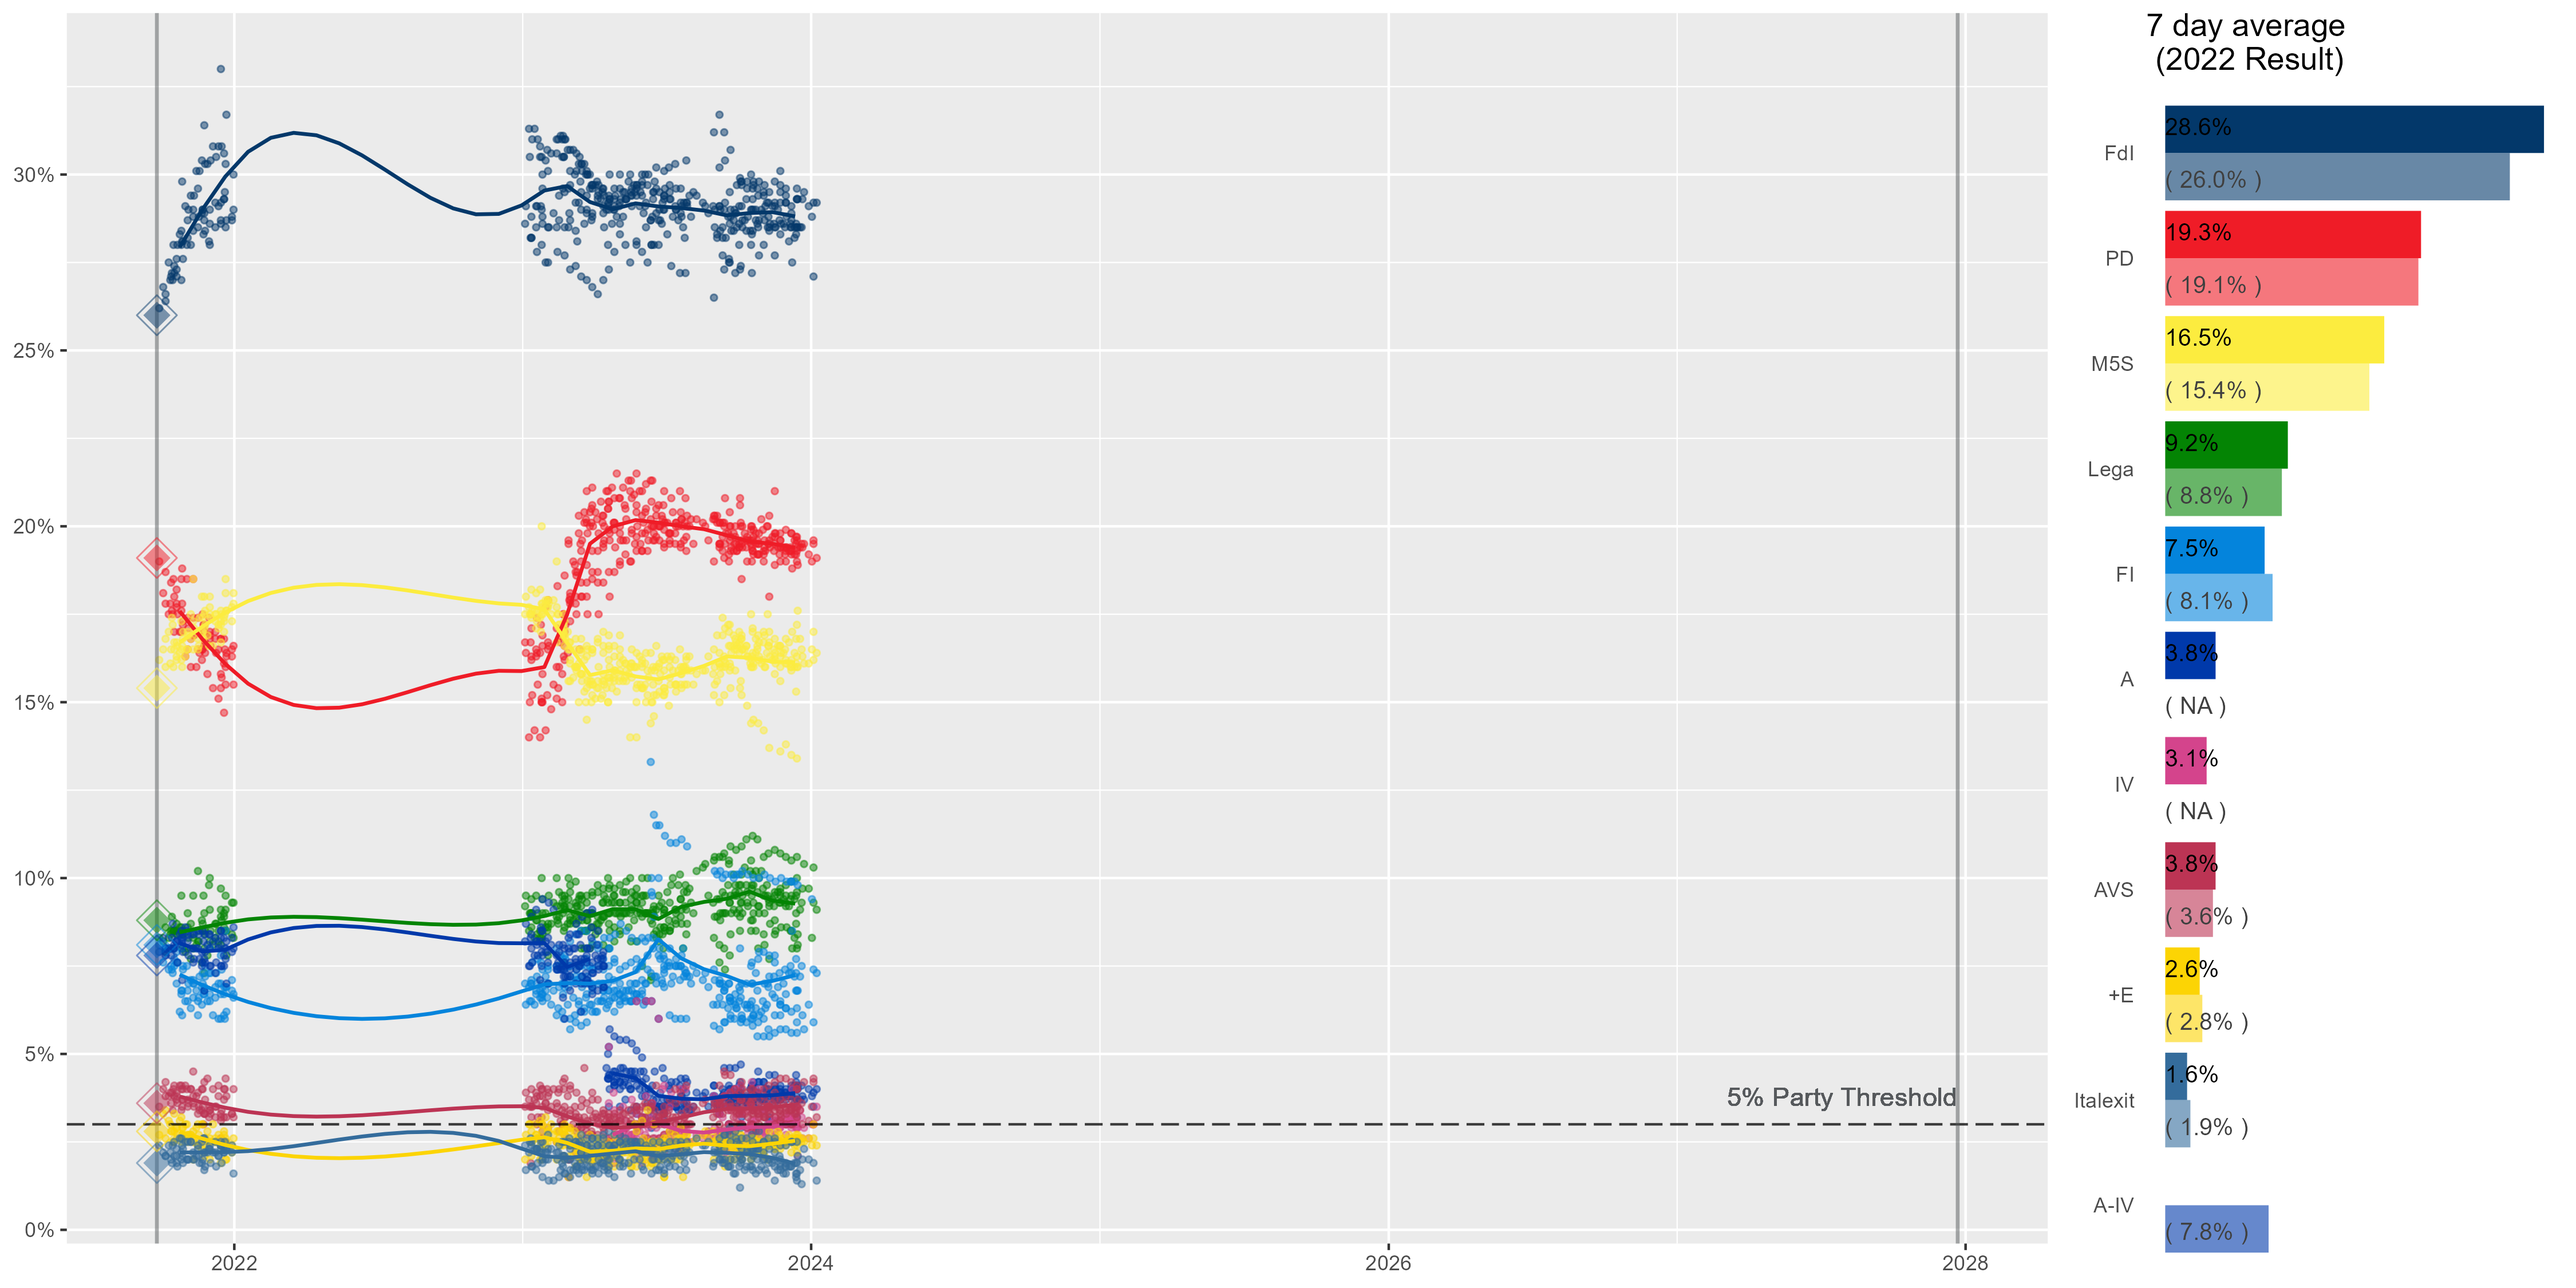
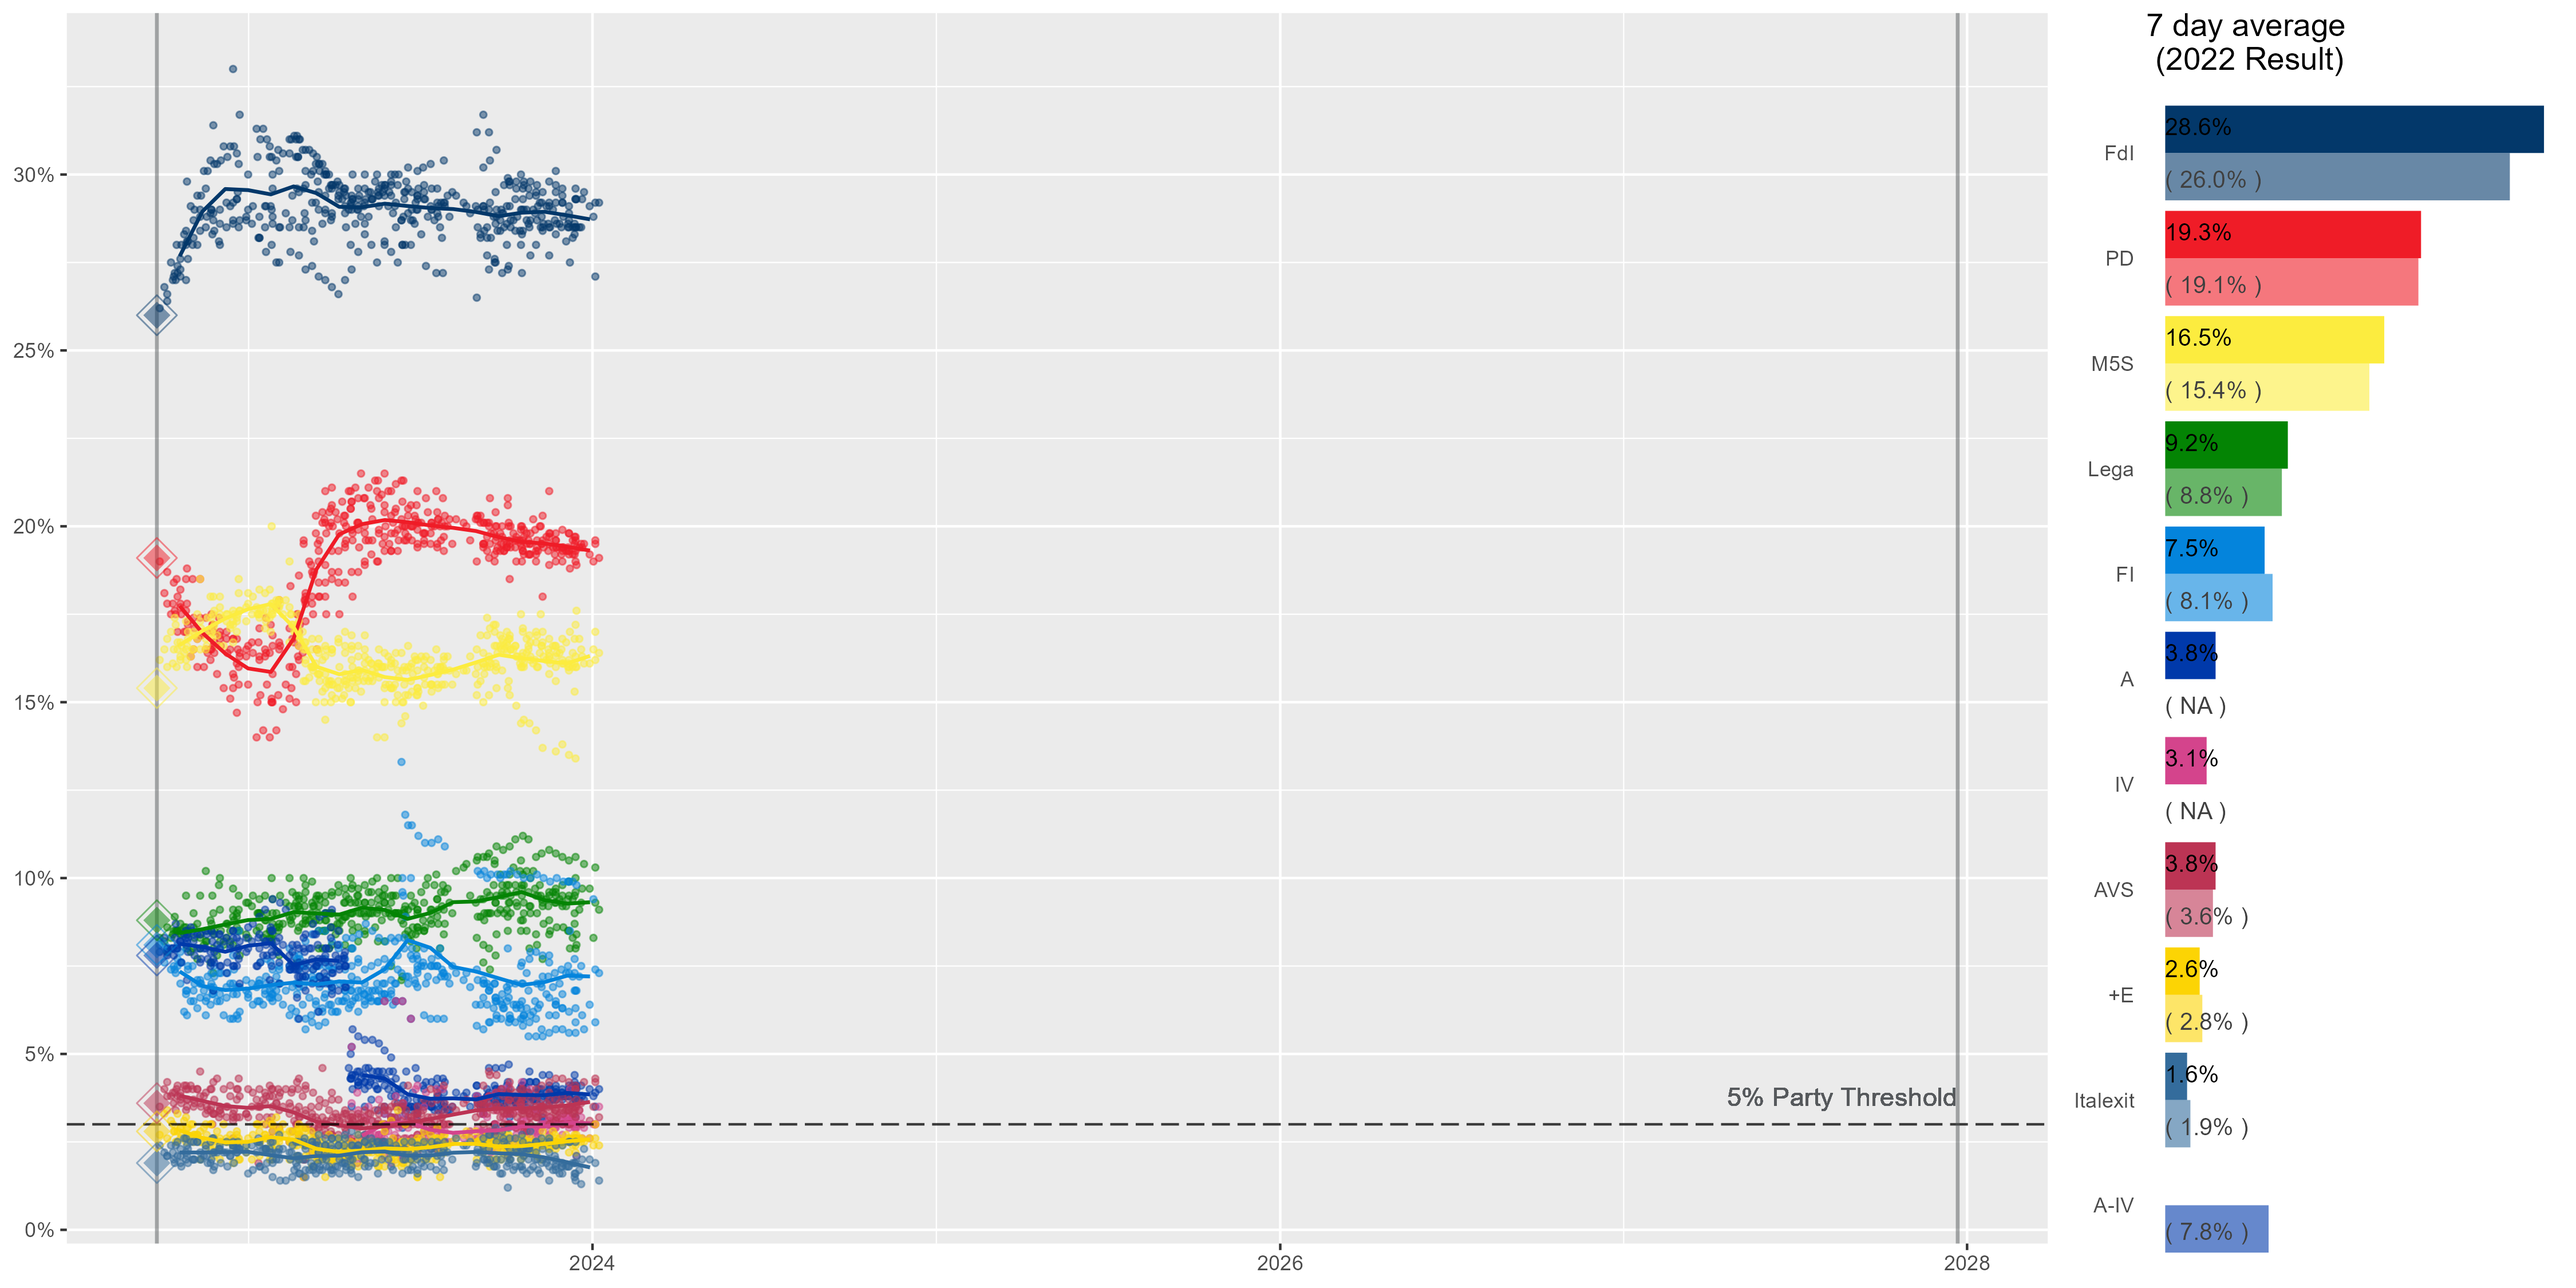
Fixed

diff --git a/Italy/data.py b/Italy/data.py
@@ -49,7 +49,7 @@ for j in range(1):
   c[i+2].columns = headers
   c[i+2]['Date2'] = c[i+2]['Date'].str.split('–').str[1]
   c[i+2].Date2.fillna(c[i+2].Date, inplace=True)
-  c[i+2]['Date2'] = [x+ str(2023-i) for x in c[i+2]['Date2'].astype(str)]
+  c[i+2]['Date2'] = [x+ str(2024-i) for x in c[i+2]['Date2'].astype(str)]
   c[i+2]['Date'] = c[i+2]['Date2']
   c[i+2] = c[i+2].drop(['Date2'], axis=1)
   c[i+2].Date=c[i+2].Date.astype(str).apply(lambda x: dateparser.parse(x, settings={'PREFER_DAY_OF_MONTH': 'first'}))
